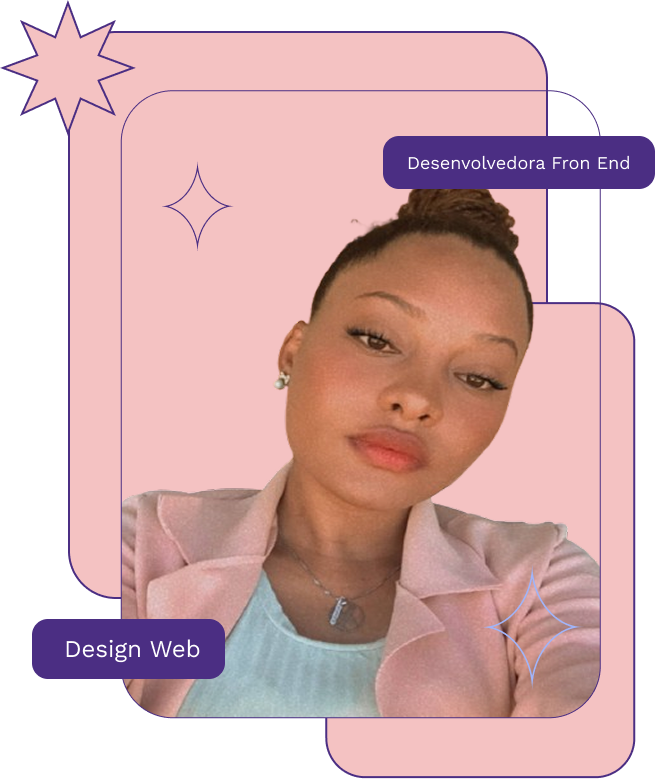
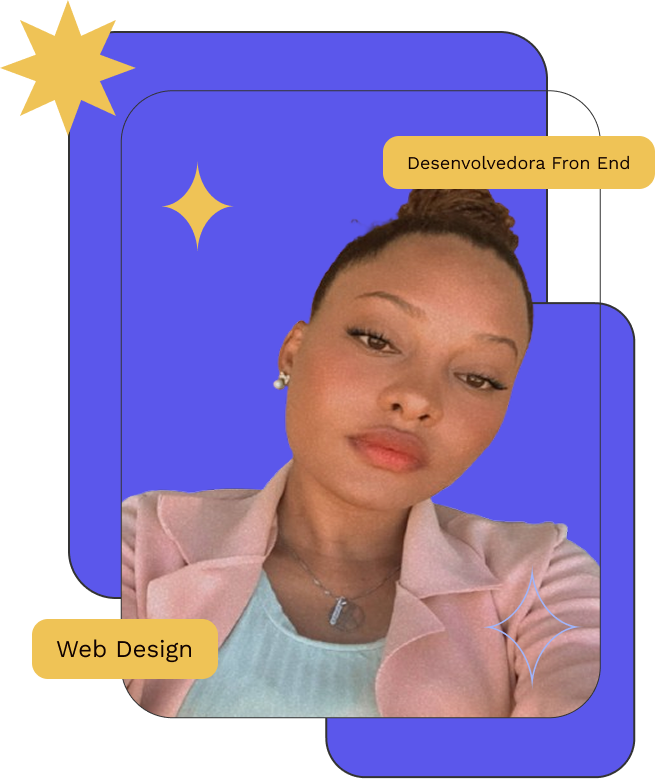
update

diff --git a/assets/css/style.css b/assets/css/style.css
@@ -1,10 +1,12 @@
 :root {
-  --cor-principal: #f4c2c2;
-  --cor-secundaria: #4b2e83;
-  --cor-preto: #111;
+  --cor-principal: #FBF4DF;
+  --cor-secundaria: #5B57EB;
+  --cor-preto: #333333;
   --cor-branco: #fff;
-  --cor-fundo: #c59797;
-  --cor-cinza: #888;
+  --cor-fundo: #EFC356;
+  --cor-cinza: #E7E7E7;
+  --cor-amarelo: #F8D046;
+  --cor-rosa: #F8B3B8;
 }
 
 * {
@@ -74,11 +76,13 @@ main section {
   font-size: 2.5rem;
   font-weight: bold;
   margin-bottom: 1rem;
+  color: var(--cor-preto);
 }
 
 .content p {
   margin-bottom: 1.5rem;
   max-width: 500px;
+  color: var(--cor-preto);
 }
 
 .buttons {
@@ -87,7 +91,7 @@ main section {
 }
 
 .btn-primary {
-  background: var(--cor-secundaria);
+  background: var(--cor-preto);
   color: var(--cor-branco);
   padding: 0.8rem 1.5rem;
   border-radius: 12px;
@@ -101,8 +105,8 @@ main section {
 }
 
 .btn-secondary {
-  border: 2px solid var(--cor-secundaria);
-  color: var(--cor-secundaria);
+  border: 2px solid var(--cor-preto);
+  color: var(--cor-preto);
   padding: 0.8rem 1.5rem;
   border-radius: 12px;
   text-decoration: none;
@@ -111,7 +115,7 @@ main section {
 }
 
 .btn-secondary:hover {
-  background: var(--cor-branco);
+  background: var(--cor-cinza);
 }
 
 /* Imagem com fundo estilizado */
@@ -135,6 +139,36 @@ figure {
   text-align: center;
 }
 
+/* TECNOLOGIAS */
+.tecnologias {
+  display: flex;
+  justify-content: center;
+  margin: 3rem 0;
+}
+
+.tecnologias ul {
+  list-style: none;
+  display: flex;
+  gap: 1rem;
+  flex-wrap: wrap;
+  background: var(--cor-amarelo);
+  border-radius: 16px;
+  padding: 1rem 2rem;
+  box-shadow: 0 2px 8px rgba(0, 0, 0, 0.08);
+}
+
+.tecnologias li {
+  display: flex;
+  align-items: center;
+  gap: 0.5rem;
+  padding: 0.5rem 1rem;
+  color: var(--cor-preto);
+}
+
+.tecnologias .icon {
+  font-size: 1.2rem;
+}
+
 
 /* SEÇÃO SOBRE MIM */
 .sobre-mim {
@@ -155,34 +189,6 @@ figure {
   color: var(--cor-branco);
 }
 
-/* TECNOLOGIAS */
-.tecnologias {
-  display: flex;
-  justify-content: center;
-  margin: 3rem 0;
-}
-
-.tecnologias ul {
-  list-style: none;
-  display: flex;
-  gap: 1rem;
-  flex-wrap: wrap;
-  background: var(--cor-branco);
-  border-radius: 16px;
-  padding: 1rem 2rem;
-  box-shadow: 0 2px 8px rgba(0, 0, 0, 0.08);
-}
-
-.tecnologias li {
-  display: flex;
-  align-items: center;
-  gap: 0.5rem;
-  padding: 0.5rem 1rem;
-}
-
-.tecnologias .icon {
-  font-size: 1.2rem;
-}
 
 /* Caixa arredondada de projetos */
 .projects-box {
@@ -197,7 +203,7 @@ figure {
   margin-bottom: 1.5rem;
   font-size: 1.8rem;
   text-align: center;
-  color: var(--cor-secundaria);
+  color: var(--cor-preto);
 }
 
 /* Grid dos projetos */
@@ -209,7 +215,7 @@ figure {
 
 /* Card de cada projeto */
 .project-card {
-  background: var(--cor-branco);
+  background: var(--cor-amarelo);
   border-radius: 12px;
   padding: 1rem;
   text-align: center;
@@ -232,19 +238,19 @@ figure {
 .project-card h3 {
   margin-bottom: 0.5rem;
   font-size: 1.3rem;
-  color: var(--cor-secundaria);
+  color: var(--cor-preto);
 }
 
 .project-card p {
   font-size: 0.9rem;
-  color: var(--cor-secundaria);
+  color: var(--cor-preto);
   margin-bottom: 1rem;
 }
 
 /* Botão dentro do card */
 .btn-project {
   display: inline-block;
-  background: var(--cor-secundaria);
+  background: var(--cor-preto);
   color: var(--cor-branco);
   padding: 0.6rem 1.2rem;
   border-radius: 8px;
@@ -305,8 +311,8 @@ figure {
 footer {
   text-align: center;
   padding: 2rem 1rem;
-  background: var(--cor-principal);
-  color: var(--cor-secundaria);
+  background: var(--cor-amarelo);
+  color: var(--cor-preto);
 }
 
 footer p {
@@ -315,30 +321,8 @@ footer p {
 
 /* Responsivo */
 @media (max-width: 768px) {
-  .content h1 {
-    font-size: 2rem;
-  }
-  main {
-    padding: 2rem 1rem;
-  }
-  .card-bg {
-    width: 220px;
-    height: 260px;
-  }
-  .image-container img {
-    max-width: 220px;
-  }
-  .tecnologias ul {
-    flex-direction: column;
-    align-items: flex-start;
-  }
-
-}
-
-@media (max-width: 800px) {
 
   header {
-    flex-direction: column;
     align-items: center;
   }
 
@@ -347,18 +331,31 @@ footer p {
     align-items: center;
   }
 
+  main {
+    padding: 2rem 1rem;
+  }
+
+  main section {
+    align-items: center;
+  }
+
+  .content h1 {
+    font-size: 2rem;
+  }
+
   .content .buttons{
     width: 100%;
     text-align: center;
   }
-  
-  .content h1 {
-    font-size: 1.8rem;
+
+  .tecnologias ul {
+    flex-direction: column;
+    align-items: flex-start;
   }
-  .content p {
-    font-size: 0.9rem;
+
+  .projects-grid {
+    grid-template-columns: 1fr;
   }
-  .image-container img {
-    max-width: 100%;
-  }
+
 }
+
